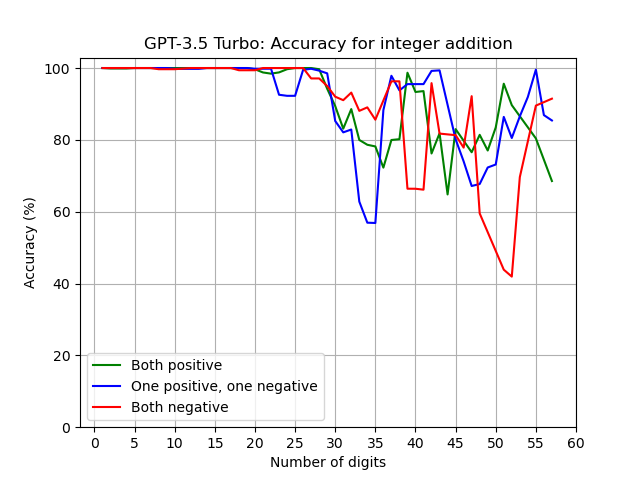
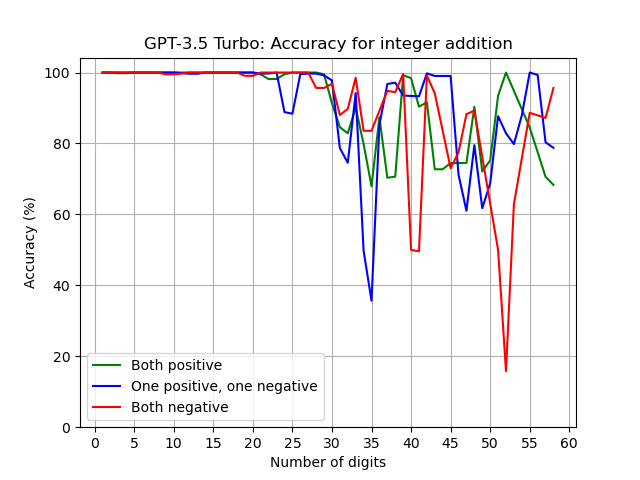
add soft accuracy metric for integer addition

diff --git a/code/eval_gpt/plots.py b/code/eval_gpt/plots.py
@@ -3,6 +3,7 @@ import numpy as np
 import json
 import re
 import seaborn as sns
+from utils import edit_distance_integers
 
 MAX_DIGITS = 60
 
@@ -229,9 +230,9 @@ def plot_for_int_addition(responses_path1, responses_path2):
         return ret[n - 1:] / n
 
     # Apply moving average to y values
-    both_positive_y_vals_smooth = moving_average(both_positive_y_vals)
-    one_negative_y_vals_smooth = moving_average(one_negative_y_vals)
-    both_negative_y_vals_smooth = moving_average(both_negative_y_vals)
+    both_positive_y_vals_smooth = moving_average(both_positive_y_vals, 2)
+    one_negative_y_vals_smooth = moving_average(one_negative_y_vals, 2)
+    both_negative_y_vals_smooth = moving_average(both_negative_y_vals, 2)
 
     # Adjust x values to match the length of the smoothed y values
     both_positive_x_vals = both_positive_x_vals[:len(both_positive_y_vals_smooth)]
@@ -251,6 +252,74 @@ def plot_for_int_addition(responses_path1, responses_path2):
     plt.ylabel('Accuracy (%)')
     plt.legend()
     plt.savefig("./int_addition_plots/accuracy_vs_digits.png")
+
+    #now calc soft accuracy (= length of correct answer including '-' sign if present - edit distance between correct answer and predicted answer / length of correct ans) for each case
+    #soft accuracy = 1 - edit distance / length of correct answer
+
+    soft_correct_totals = np.zeros((3, MAX_DIGITS))
+
+    for a, b, answer in triplets:
+            
+        num_digits = get_num_digits(a)
+
+        if a >= 0 and b >= 0:
+            correct_answer = str(a + b)
+            soft_correct_totals[0, num_digits-1] += 1 - edit_distance_integers(a + b, answer)/len(correct_answer)
+
+        elif a < 0 and b < 0:
+            correct_answer = str(a + b)
+            soft_correct_totals[2, num_digits-1] += 1 - edit_distance_integers(a + b, answer)/len(correct_answer)
+
+        else:
+            correct_answer = str(a + b)
+            soft_correct_totals[1, num_digits-1] += 1 - edit_distance_integers(a + b, answer)/len(correct_answer)
+    
+    #calculate soft accuracy
+    soft_accuracy = soft_correct_totals*100/total
+    #plot the soft accuracies  but only use data points where the total > 40
+    plt.figure()
+    #both_positive_x_vals is a list of x values where total >= 40 for the case when both numbers are positive
+    both_positive_x_vals = np.where(total[0] >= 40)[0] + 1
+    both_positive_y_vals = soft_accuracy[0][total[0] >= 40]
+    #plt.plot(both_positive_x_vals, both_positive_y_vals, label="Both positive", color="green")
+    #plt.scatter(both_positive_x_vals, both_positive_y_vals, color="green")
+
+    #one_negative_x_vals is a list of x values where total >= 40 for the case when one number is negative
+    one_negative_x_vals = np.where(total[1] >= 40)[0] + 1
+    one_negative_y_vals = soft_accuracy[1][total[1] >= 40]
+
+    #plt.plot(one_negative_x_vals, one_negative_y_vals, label="One positive, one negative", color="blue")
+    #plt.scatter(one_negative_x_vals, one_negative_y_vals, color="blue")
+
+    #both_negative_x_vals is a list of x values where total >= 40 for the case when both numbers are negative
+    both_negative_x_vals = np.where(total[2] >= 40)[0] + 1
+    both_negative_y_vals = soft_accuracy[2][total[2] >= 40]
+    #plt.plot(both_negative_x_vals, both_negative_y_vals, label="Both negative", color="red")
+    #plt.scatter(both_negative_x_vals, both_negative_y_vals, color="red")
+
+    # Apply moving average to y values
+    both_positive_y_vals_smooth = moving_average(both_positive_y_vals, 2)
+    one_negative_y_vals_smooth = moving_average(one_negative_y_vals, 2)
+    both_negative_y_vals_smooth = moving_average(both_negative_y_vals, 2)
+
+    # Adjust x values to match the length of the smoothed y values
+    both_positive_x_vals = both_positive_x_vals[:len(both_positive_y_vals_smooth)]
+    one_negative_x_vals = one_negative_x_vals[:len(one_negative_y_vals_smooth)]
+    both_negative_x_vals = both_negative_x_vals[:len(both_negative_y_vals_smooth)]
+
+    plt.plot(both_positive_x_vals, both_positive_y_vals_smooth, label="Both positive", color="green")
+    plt.plot(one_negative_x_vals, one_negative_y_vals_smooth, label="One positive, one negative", color="blue")
+    plt.plot(both_negative_x_vals, both_negative_y_vals_smooth, label="Both negative", color="red")
+
+    plt.xticks(np.arange(0, 61, 5))
+    plt.yticks(np.arange(0, 101, 20))
+    plt.title("GPT-3.5 Turbo: Soft accuracy for integer addition")
+    plt.grid()
+
+    plt.xlabel('Number of digits')
+    plt.ylabel('Soft accuracy (%)')
+    plt.legend()
+    plt.savefig("./int_addition_plots/soft_accuracy_vs_digits.png")
 
 
 def plot_for_list_min(responses_path):

diff --git a/code/eval_gpt/utils.py b/code/eval_gpt/utils.py
@@ -1,0 +1,22 @@
+def edit_distance_integers(a, b):
+
+    a = str(a)
+    b = str(b)
+
+    m = len(a)
+    n = len(b)
+
+    dp = [[0 for _ in range(n+1)] for _ in range(m+1)]
+
+    for i in range(m+1):
+        for j in range(n+1):
+            if i == 0:
+                dp[i][j] = j
+            elif j == 0:
+                dp[i][j] = i
+            elif a[i-1] == b[j-1]:
+                dp[i][j] = dp[i-1][j-1]
+            else:
+                dp[i][j] = 1 + min(dp[i][j-1], dp[i-1][j], dp[i-1][j-1])
+
+    return dp[m][n]
